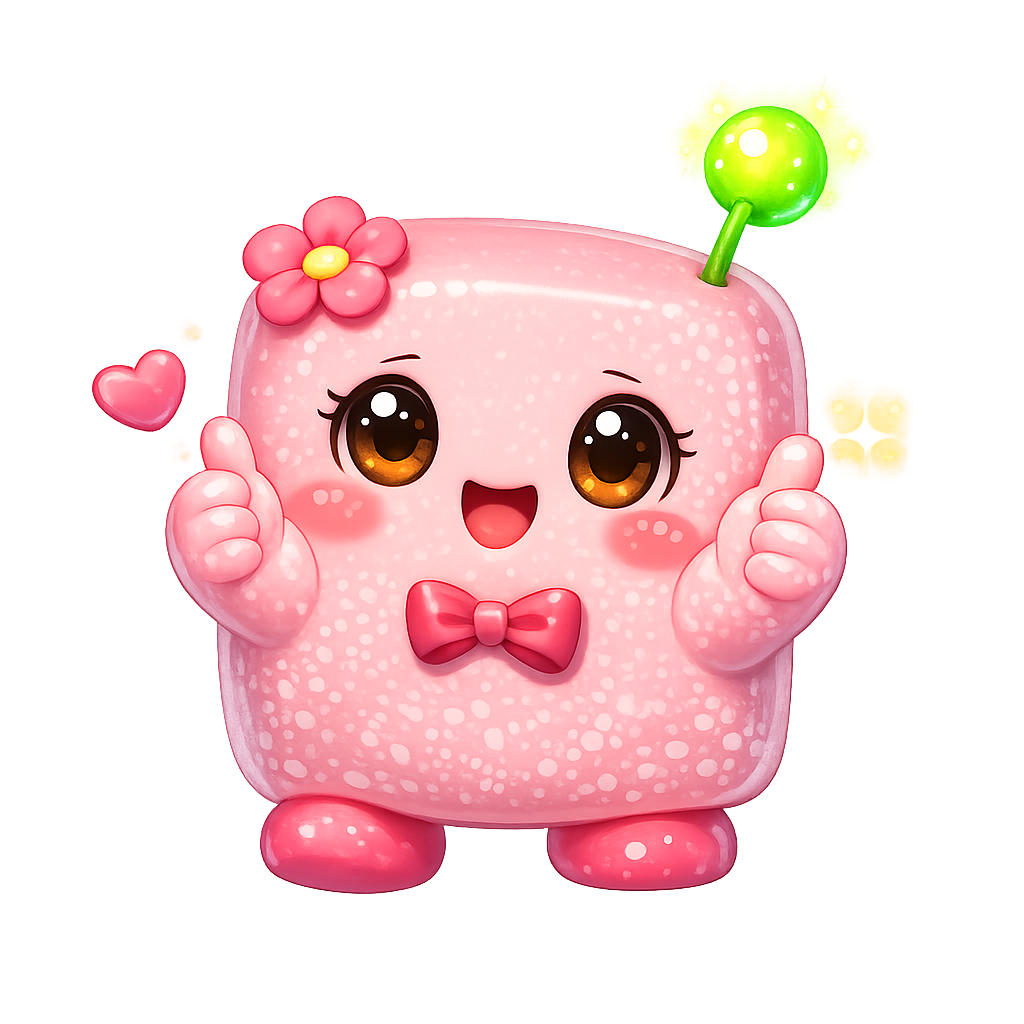
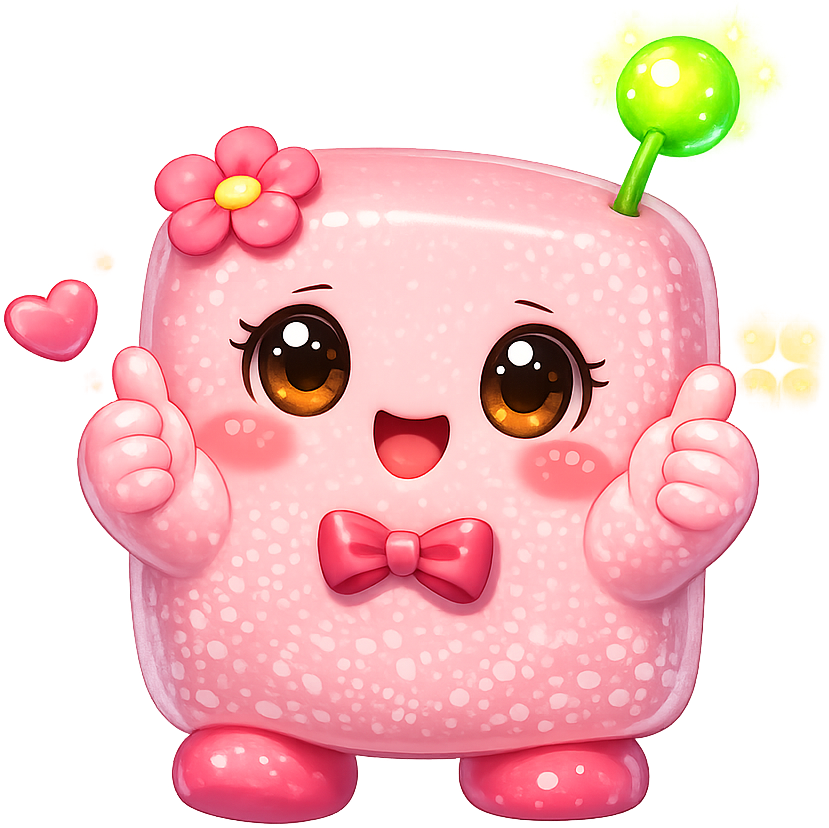
new mascot with brorder trim

diff --git a/logs/mascot-generation.md b/logs/mascot-generation.md
@@ -1,0 +1,131 @@
+# Tokie Mascot Generation Log
+
+**Project:** Understanding Dementia Textbook
+**Date:** 2026-04-09
+**Feature:** Learning Mascot (Pedagogical Agent)
+**Status:** Completed
+
+---
+
+## Character Design
+
+- **Name:** Tokie
+- **Species:** Abstract kawaii cube character
+- **Art Style:** 3D rendered kawaii/cute, soft lighting, gentle shadows
+- **Appearance:** Small, rounded pink cube with soft edges and glossy sparkly surface. Large expressive brown eyes, tiny happy mouth, rosy cheeks. Pink flower on top-left of head, thin green antenna with glowing green orb on top-right. Small pink bow on front. Stubby pink arms and legs.
+- **Existing Image:** `docs/img/tokie.png` (used as site logo in header)
+
+## What Was Done
+
+### 1. Image Prompt Generation
+
+Created `docs/img/mascot/mascot-prompts.md` with 7 fully self-contained AI image prompts, each including the complete base character description so they can be copied independently into any AI image generator.
+
+| # | Pose | Filename | Purpose |
+|---|------|----------|---------|
+| 1 | Neutral | `neutral.png` | General sidebars, default |
+| 2 | Welcome | `welcome.png` | Chapter openings |
+| 3 | Thinking | `thinking.png` | Key concepts |
+| 4 | Tip | `tip.png` | Tips and hints |
+| 5 | Warning | `warning.png` | Common mistakes, caution |
+| 6 | Encouraging | `encouraging.png` | Difficult content |
+| 7 | Celebration | `celebration.png` | Achievements, chapter completion |
+
+User edited the prompts file to remove some boilerplate from pose 1 (neutral) and add pose-specific labels to each prompt (e.g., "Please generate a new welcome pose for Tokie").
+
+### 2. Image Generation
+
+User generated all 7 images externally using an AI image generator and saved them to `docs/img/mascot/`. All images were 1024x1024 PNG with transparent backgrounds.
+
+### 3. Image Padding Trim
+
+Ran `trim-padding-from-image.py` on all 7 images to remove excess transparent padding:
+
+| Image | Before | After |
+|-------|--------|-------|
+| neutral.png | 1024x1024 | 764x811 |
+| welcome.png | 1024x1024 | 764x811 |
+| thinking.png | 1024x1024 | 699x889 |
+| tip.png | 1024x1024 | 809x827 |
+| warning.png | 1024x1024 | 808x843 |
+| encouraging.png | 1024x1024 | 829x828 |
+| celebration.png | 1024x1024 | 883x824 |
+
+Script location: `../claude-skills/src/image-utils/trim-padding-from-image.py`
+
+### 4. Mascot CSS
+
+Created `docs/css/mascot.css` adapted from the biology textbook's mascot CSS, with colors customized to match the Dementia book's theme:
+
+- **Welcome:** Royal Blue (`#4A5FBF`) — from book's primary palette
+- **Thinking:** Warm Purple (`#7B6BB8`) — from book's secondary palette
+- **Tip:** Teal (`#00897b`)
+- **Warning:** Red (`#c62828`)
+- **Celebration:** Purple (`#6a1b9a`)
+- **Encourage:** Blue (`#0277bd`)
+- **Neutral:** Slate Gray (`#546e7a`)
+
+Mascot image size set to `90px` via `--mascot-size` CSS variable, floated left in admonition body.
+
+Registered in `mkdocs.yml`:
+```yaml
+extra_css:
+  - css/extra.css
+  - css/mascot.css
+```
+
+### 5. Mascot Test Page
+
+Created `docs/learning-graph/mascot-test.md` with:
+
+- Image grid showing all 7 poses at 150px with dashed blue borders for padding inspection
+- All 7 admonition types rendered with Tokie images
+- Each admonition contains detailed usage guidelines specific to dementia textbook content:
+  - **Welcome:** Chapter openings, preview what reader will learn
+  - **Thinking:** Core concepts connecting ideas (plaques/tangles, neuroplasticity), 2-3 per chapter
+  - **Tip:** Practical caregiver/family advice (communication, routines, medications)
+  - **Warning:** Misconceptions and safety risks (confusing aging with dementia, home hazards)
+  - **Encouraging:** Emotionally difficult content (end-of-life, caregiver burnout, brain scans)
+  - **Celebration:** End of chapters, summarize accomplishments, once per chapter
+  - **Neutral:** General context, background, terminology notes
+- Usage guidelines table with frequency recommendations
+- Restraint rule: max 5-6 mascot admonitions per chapter, never back-to-back
+
+Added to `mkdocs.yml` navigation under Learning Graph section.
+
+## Files Created
+
+| File | Purpose |
+|------|---------|
+| `docs/img/mascot/mascot-prompts.md` | AI image generation prompts for all 7 poses |
+| `docs/img/mascot/neutral.png` | Neutral/default pose |
+| `docs/img/mascot/welcome.png` | Welcome/introduction pose |
+| `docs/img/mascot/thinking.png` | Thinking/teaching pose |
+| `docs/img/mascot/tip.png` | Tip/pointing pose |
+| `docs/img/mascot/warning.png` | Warning/caution pose |
+| `docs/img/mascot/encouraging.png` | Encouraging pose |
+| `docs/img/mascot/celebration.png` | Celebration pose |
+| `docs/css/mascot.css` | Custom admonition styles for all 7 mascot types |
+| `docs/learning-graph/mascot-test.md` | Mascot rendering test and usage guide |
+
+## Files Modified
+
+| File | Change |
+|------|--------|
+| `mkdocs.yml` | Added `css/mascot.css` to `extra_css`, added mascot test page to nav |
+
+## Admonition Syntax Reference
+
+```markdown
+!!! mascot-welcome "Title"
+    <img src="../../img/mascot/welcome.png" class="mascot-admonition-img" alt="Tokie welcomes you">
+    Body text here.
+```
+
+Image `src` path must be relative to the rendered page URL. For chapter pages at `chapters/XX-name/index.md`, use `../../img/mascot/`. For pages at `learning-graph/mascot-test.md`, use `../../img/mascot/`.
+
+## Next Steps
+
+- Add Tokie mascot section to `CLAUDE.md` for consistent AI-generated content
+- Begin adding mascot admonitions to chapter content
+- Update `docs/feature-checklist.md` to mark Pedagogical Agent as implemented
